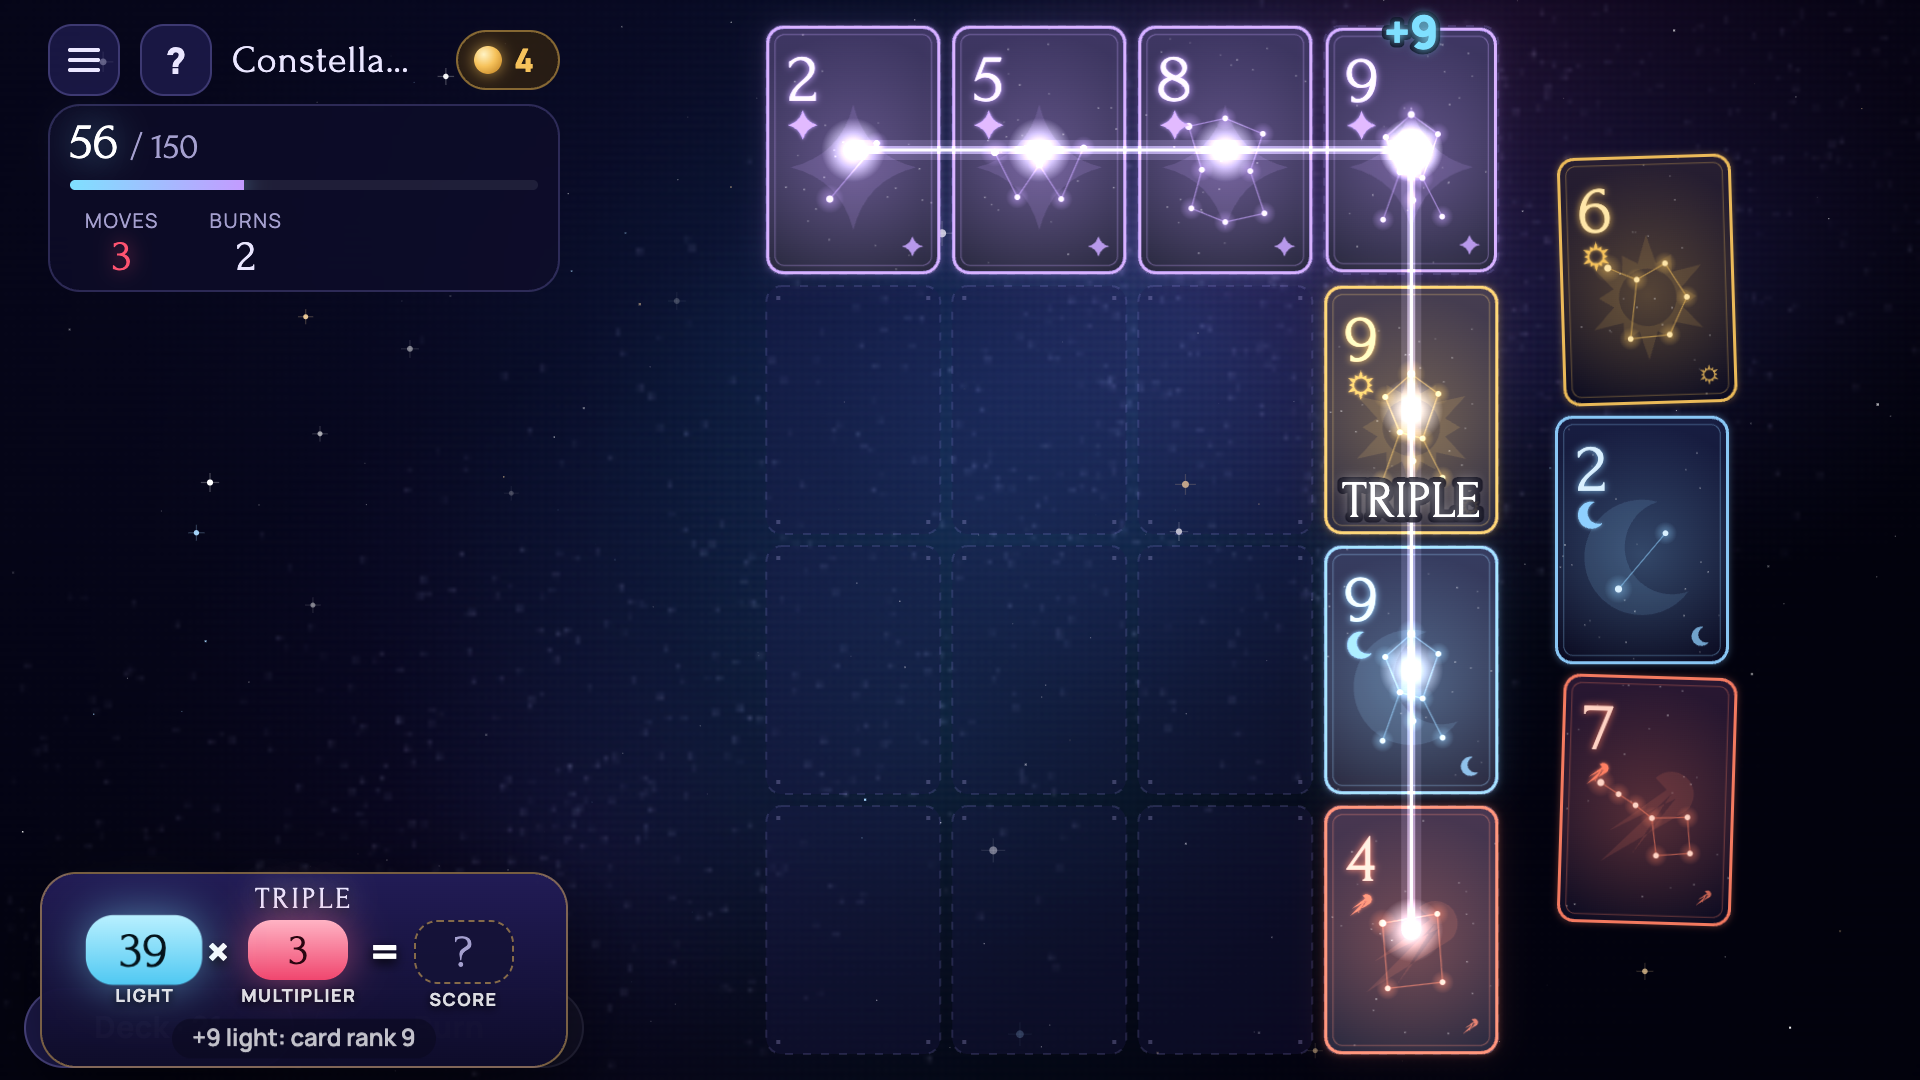
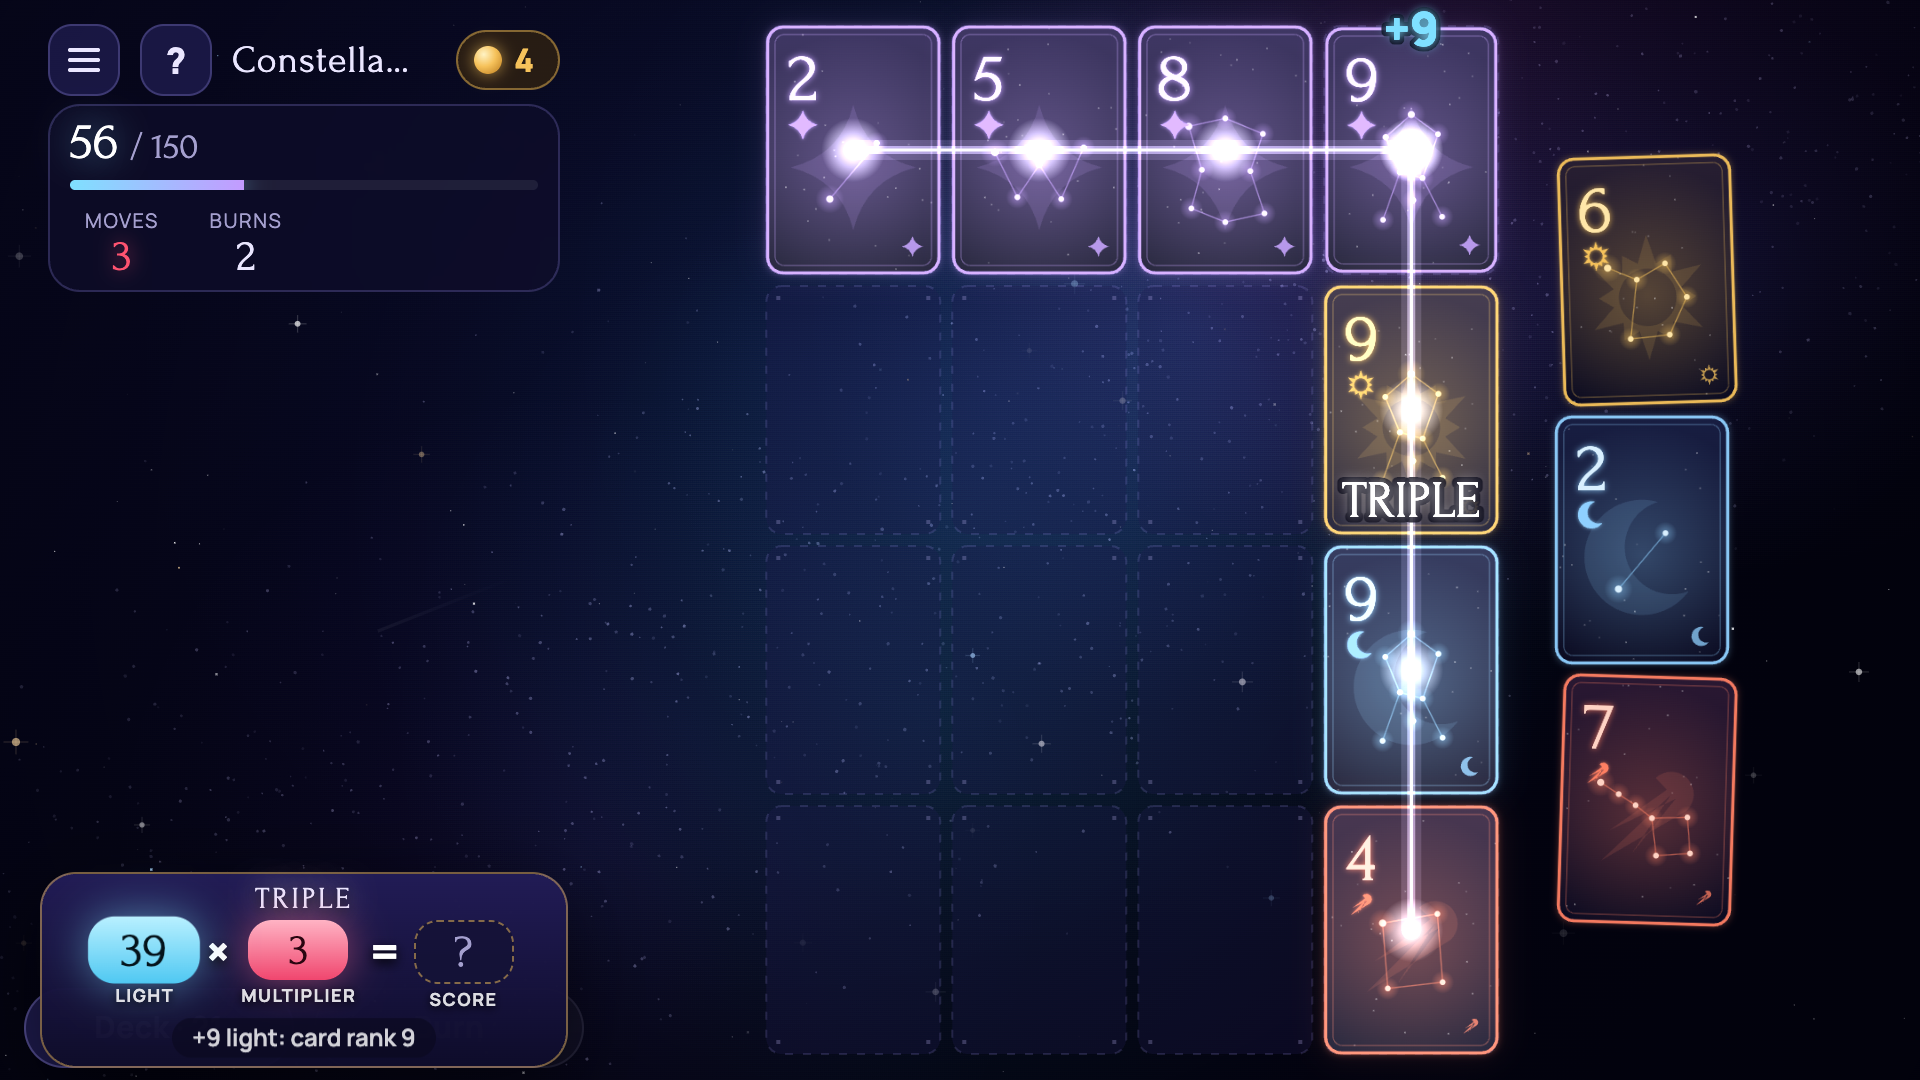
docs(yandex): listing texts, fresh store assets, upload checklist
- store/yandex/listing.md: title, short and full descriptions, how to play,
  tags, categories and age rating in Russian and English, plus a map of
  files to console fields.
- Covers and screenshots regenerated from the 0.3 interface; the Russian
  cover now says "Звёздное плетение".
- docs/YANDEX.md: step-by-step upload, draft settings, a device checklist
  for ads, saves, sound and language, moderation and post-launch steps.

diff --git a/store/yandex/listing.md b/store/yandex/listing.md
@@ -1,0 +1,91 @@
+# Карточка игры в Яндекс Играх
+
+Тексты для полей консоли. Лимиты длины консоль показывает сама — если поле короче,
+сокращать с конца: первые фразы самые важные.
+
+## Русский
+
+**Название:** Звёздное плетение
+
+**Краткое описание:**
+Карточная головоломка о созвездиях: выкладывай звёзды на небо 4×4, собирай линии
+и плети кресты, чтобы пережить Затмения.
+
+**Описание:**
+Небо — поле 4×4, твоя рука — звёзды разных мастей и рангов. Заполни ряд или столбец,
+и линия вспыхнет созвездием: пара, стрит, флеш, каскад или редкая Сверхновая.
+Положи звезду на пересечение двух почти полных линий — и сплетёшь крест: обе линии
+вспыхнут разом, очки удвоятся.
+
+Между ночами загляни в Обсерваторию. Собирай Знамения — особые правила, которые
+прибавляют свет и множитель. Расставь их в верном порядке, прокачивай созвездия
+звёздными картами, меняй колоду ритуалами и убирай лишние карты.
+
+Третья ночь каждого созвездия — Затмение со своим подвохом: Туман прячет ранги, Засуха
+уменьшает руку. Восемь созвездий до победы, а дальше — бесконечный режим.
+
+• Короткое обучение за 2 минуты — правила понятны без знания покера
+• Справочник с анимациями всегда под рукой
+• 40 Знамений, 13 Затмений, 5 колод неба, 5 уровней сложности
+• Вызов дня: один расклад для всех
+• Прогресс сохраняется в облаке Яндекса
+
+**Как играть:**
+Выбери карту в руке и положи её на клетку неба — нажатием или перетаскиванием.
+Когда ряд или столбец заполнен, он вспыхивает и приносит очки: свет × множитель.
+Набери цель ночи, пока не кончились ходы. Ненужную карту перетащи на «Сжечь».
+Все правила и сочетания — по кнопке «?» вверху экрана.
+
+**Теги / ключевые слова:** карточная игра, головоломка, пасьянс, рогалик, созвездия,
+звёзды, стратегия, комбинации, покер, логика
+
+**Категории:** Карточные, Головоломки (если есть — «Стратегии» третьей)
+
+**Возраст:** 0+ — нет насилия, азарта на деньги и чатов. Внутриигровое золото не
+покупается за реальные деньги.
+
+## English
+
+**Title:** Starweave
+
+**Short description:**
+A constellation card puzzler: place stars on a 4×4 sky, ignite lines and weave
+crosses to outlast the Eclipses.
+
+**Description:**
+The sky is a 4×4 board, your hand holds stars of different suits and ranks. Fill a row
+or a column and it ignites as a constellation: a pair, a straight, a flush, a cascade
+or a rare Supernova. Place a star where two nearly full lines meet to weave a cross —
+both lines ignite at once and the score doubles.
+
+Between nights visit the Observatory. Collect Omens — special rules that add light and
+multiplier. Put them in the right order, level up constellations with star charts,
+reshape your deck with rituals and trim the cards you don't need.
+
+The third night of every constellation is an Eclipse with its own twist: the Fog hides ranks, the Drought
+shrinks your hand. Eight constellations to victory, then endless mode.
+
+• A 2-minute tutorial — no poker knowledge needed
+• An animated guide is always one tap away
+• 40 Omens, 13 Eclipses, 5 sky decks, 5 difficulty levels
+• Daily challenge: one deal for everyone
+• Progress is saved to the Yandex cloud
+
+**How to play:**
+Pick a card in your hand and put it on a sky cell — tap or drag. When a row or a column
+is full it ignites and scores: light × multiplier. Reach the night's target before you run
+out of moves. Drag a card you don't need onto "Burn". All rules and combinations are
+behind the "?" button at the top.
+
+**Tags:** card game, puzzle, solitaire, roguelike, constellations, stars, strategy,
+combos, poker, logic
+
+## Файлы
+
+| Поле консоли | Файл |
+|---|---|
+| Иконка 512×512 | `store/yandex/icon-512.png` |
+| Обложка 800×470 | `store/yandex/cover-800x470-ru.png`, `-en.png` |
+| Скриншоты (телефон) | `store/screens/ru/portrait-*.png`, `store/screens/en/portrait-*.png` |
+| Скриншоты (компьютер) | `store/screens/ru/landscape-*.png`, `store/screens/en/landscape-*.png` |
+| Архив игры | `release/starweave-yandex.zip` (`npm run build:yandex`) |

diff --git a/docs/YANDEX.md b/docs/YANDEX.md
@@ -1,0 +1,65 @@
+# Выход на Яндекс Игры — пошагово
+
+Что уже готово в коде: SDK (`src/platform/yandex.ts`) — загрузка, `LoadingAPI.ready`,
+`GameplayAPI` start/stop, реклама за награду и межстраничная, облачные сохранения игрока,
+язык из окружения, пауза звука на рекламе и при скрытой вкладке. Сборка для портала без
+service worker, манифеста PWA, карт исходников; без подсказок «на весь экран» и «на экран
+Домой» (они только для своего сайта). Контекстное меню и выделение текста отключены.
+
+## 0. До начала (Денис)
+
+1. Самозанятость в «Мой налог» (или ИП) — без неё нет договора и выплат.
+2. Яндекс ID → [консоль разработчика](https://games.yandex.ru/console/) → принять
+   соглашение, заполнить реквизиты.
+3. В `legal/config.json` — оператор (ФИО самозанятого) и почта для вопросов по данным.
+4. (Желательно) счётчик [Метрики](https://metrika.yandex.ru) → его номер.
+
+## 1. Сборка
+
+```bash
+VITE_METRIKA_ID=<номер счётчика> npm run build:yandex
+```
+
+Без счётчика — просто `npm run build:yandex`. Результат: `release/starweave-yandex.zip`
+(~320 КБ). Сборка печатает предупреждение, если в `legal/config.json` остались заглушки.
+
+## 2. Черновик в консоли
+
+1. «Добавить приложение» → тип «Игра» → загрузить архив.
+2. Карточка — тексты и файлы из [`store/yandex/listing.md`](../store/yandex/listing.md):
+   название, описания ru/en, «Как играть», категории, теги, иконка, обложки, скриншоты.
+3. Настройки:
+   - языки: русский (основной), английский;
+   - ориентация: портретная и альбомная (игра подстраивается под обе);
+   - платформы: компьютер, телефон, планшет;
+   - облачные сохранения: включить;
+   - возраст: 0+.
+4. Реклама: включить межстраничную и за вознаграждение (баннеры в игре не используются).
+
+## 3. Проверка черновика (на телефоне и компьютере)
+
+Открыть ссылку черновика из консоли:
+
+- [ ] Игра загружается, полоса загрузки Яндекса исчезает, меню на русском.
+- [ ] Обучение проходится до конца, первый подсчёт ждёт «Далее».
+- [ ] «Второй шанс» при поражении показывает ролик и даёт +3 хода.
+- [ ] «Удвоить награду» показывает ролик и удваивает золото.
+- [ ] Между созвездиями — межстраничная реклама, звук на ней молчит и возвращается.
+- [ ] Свернуть вкладку / переключиться на другое приложение — звук замолкает.
+- [ ] Закрыть игру посреди забега, открыть снова (войдя в аккаунт) — забег продолжается.
+- [ ] В английском интерфейсе Яндекса игра открывается на английском.
+- [ ] Поворот телефона — игра перестраивается, без прокрутки и обрезанных кнопок.
+- [ ] Долгое нажатие на кнопку не вызывает меню «Скопировать».
+
+Если что-то не так — `?debug` в адресе игры показывает диагностику.
+
+## 4. Модерация
+
+Отправить на модерацию; обычно несколько рабочих дней. Замечания приходят в консоль —
+присылай текст, правлю и пересобираю архив (номер версии растёт, `npm run build:yandex`).
+
+## 5. После выхода
+
+- Мёрдж релиза в `main`, теги версий (Y.4).
+- Смотреть в консоли: удержание D1/D7, время сессии, доход с рекламы; в Метрике —
+  воронку обучения и где умирают ([ANALYTICS.md](ANALYTICS.md)).
